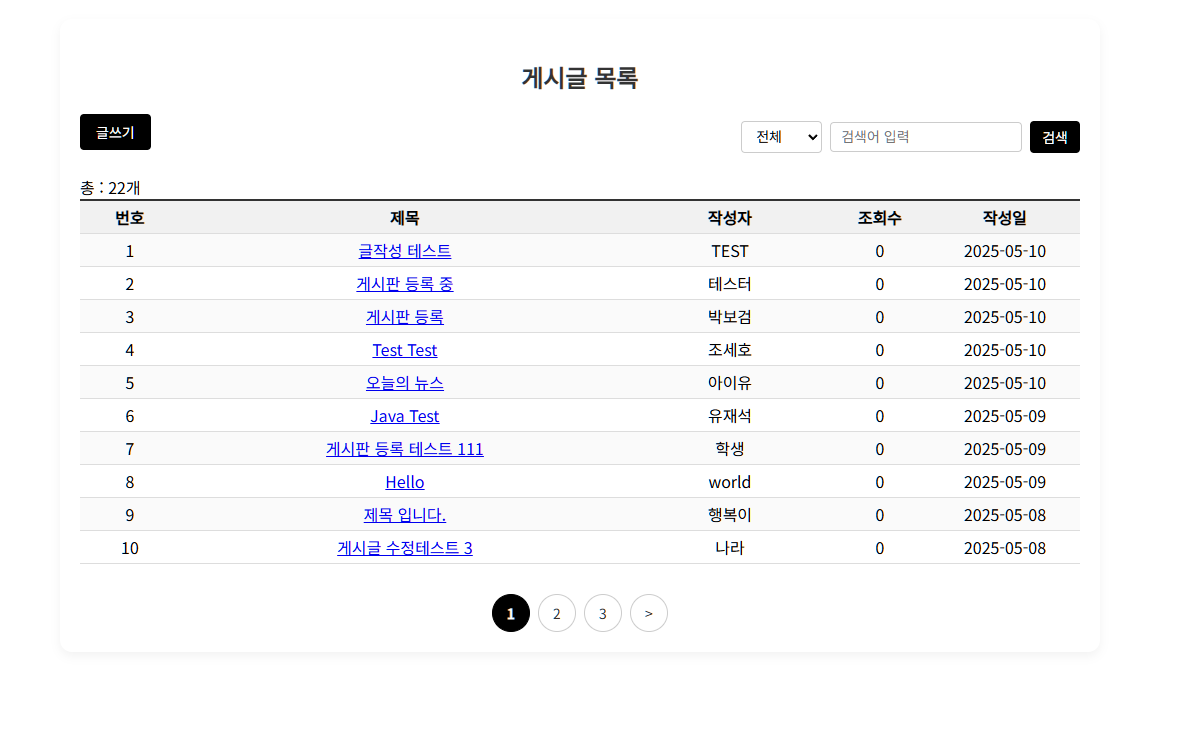
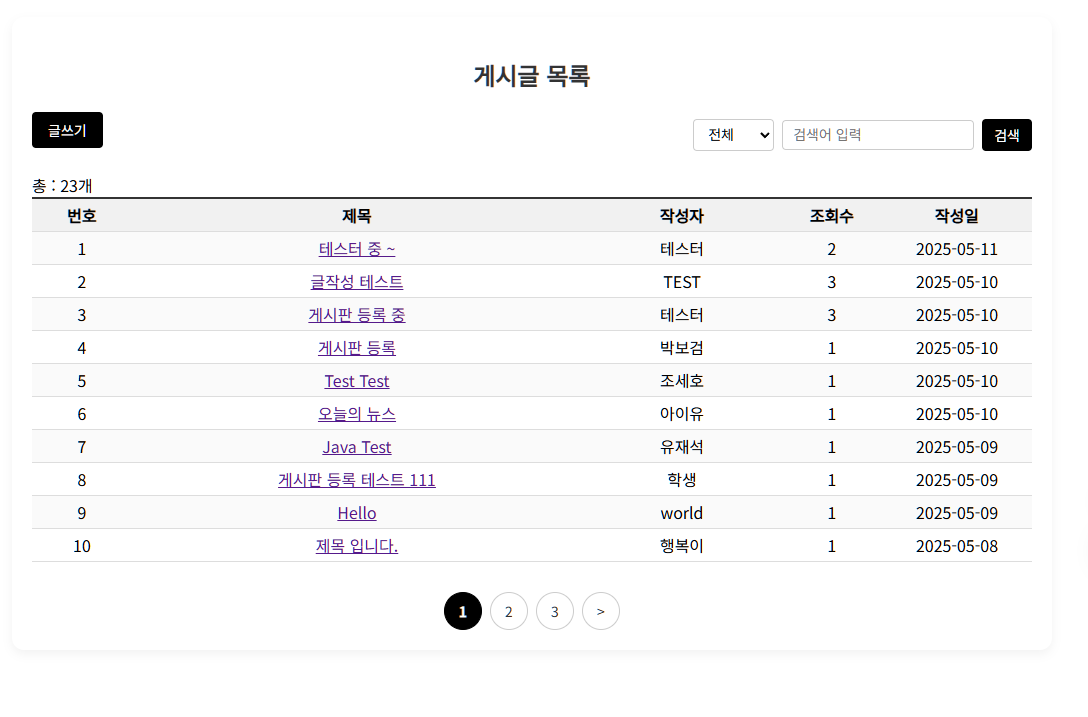
home add

diff --git a/src/main/webapp/css/home/home_style.css b/src/main/webapp/css/home/home_style.css
@@ -1,0 +1,114 @@
+
+.header {
+    background-color: #6366f1;  /* indigo-500 */
+    color: white;
+    padding: 20px 40px;
+    text-align: center;
+}
+
+.header p {
+    margin-top: 5px;
+    font-size: 14px;
+    color: #e0e7ff; /* indigo-100 */
+}
+
+/* Top Menu */
+.top-menu {
+    background-color: #818cf8;  /* indigo-300 */
+}
+
+.top-menu ul {
+    display: flex;
+    justify-content: center;
+    list-style: none;
+    padding: 10px 0;
+    margin: 0;
+}
+
+.top-menu li {
+    margin: 0 20px;
+}
+
+.top-menu a {
+    color: white;
+    text-decoration: none;
+    padding: 8px 16px;
+    border-radius: 6px;
+    transition: background-color 0.2s ease;
+}
+
+.top-menu a:hover {
+    background-color: #6366f1; 
+}
+
+
+html, body {
+    height: 100%;
+}
+
+body {
+    margin: 0;
+    font-family: 'Inter', 'Segoe UI', Tahoma, sans-serif;
+    background-color: #f9fafb;
+    color: #111827;
+    display: flex;
+    flex-direction: column;
+}
+
+.main {
+    flex: 1;
+}
+
+.container {
+    max-width: 1024px;
+    margin: 0 auto;
+    padding: 20px 10px;
+    text-align: center;
+}
+
+.title {
+    font-size: 2rem;
+    font-weight: bold;
+    margin-bottom: 20px;
+}
+
+.subtitle {
+    font-size: 1.2rem;
+    margin-bottom: 40px;
+    color: #6b7280;
+}
+
+.btn {
+    background-color: #3b82f6;
+    color: white;
+    padding: 12px 24px;
+    border: none;
+    border-radius: 8px;
+    font-size: 1rem;
+    cursor: pointer;
+    text-decoration: none;
+    transition: background-color 0.2s ease;
+}
+
+.btn:hover {
+    background-color: #2563eb;
+}
+
+/* footer */
+.footer {
+    background-color: #e5e7eb;
+    color: #6b7280;
+    padding: 20px;
+    text-align: center;
+    font-size: 0.9rem;
+}
+
+@media (max-width: 600px) {
+    .top-menu ul {
+        flex-direction: column;
+    }
+
+    .top-menu li {
+        margin: 10px 0;
+    }
+}

diff --git a/src/main/webapp/css/map/map_style.css b/src/main/webapp/css/map/map_style.css
@@ -73,7 +73,7 @@ body {
     white-space: nowrap;
 }
 
-/* 상세 정보 패널 */
+/* 상세 정보 */
 #info-panel {
     margin-top: 20px;
     border: 1px solid #ccc;
@@ -82,7 +82,7 @@ body {
     border-radius: 6px;
 }
 
-/* 사고 테이블 */
+/* 테이블 */
 .accident-table {
     width: 100%;
     border-collapse: collapse;

diff --git a/src/main/java/main/web/BoardController.java b/src/main/java/main/web/BoardController.java
@@ -12,6 +12,7 @@ import org.springframework.ui.ModelMap;
 import org.springframework.web.bind.annotation.RequestMapping;
 import org.springframework.web.bind.annotation.RequestMethod;
 import org.springframework.web.bind.annotation.RequestParam;
+import org.springframework.web.bind.annotation.ResponseBody;
 import org.springframework.web.servlet.mvc.support.RedirectAttributes;
 
 import main.service.BoardService;
@@ -78,6 +79,14 @@ public class BoardController {
         return "redirect:/boardList.do"; 
     }
 
+    // 조회수만 증가
+    @RequestMapping("/increaseHit.do")
+    @ResponseBody
+    public void increaseHit(@RequestParam("unq") int unq) {
+    	logger.info("==================== increaseHit.do ");
+        boardService.updateBoardHits(unq);
+    }
+    
     @RequestMapping("/boardDetail.do")
     public String boardDetail(@RequestParam("unq") int unq, ModelMap model) {
     	logger.info("==================== boardDetail.do ");

diff --git a/src/main/java/home/web/HomeController.java b/src/main/java/home/web/HomeController.java
@@ -1,0 +1,20 @@
+package home.web;
+
+import org.apache.logging.log4j.LogManager;
+import org.apache.logging.log4j.Logger;
+import org.springframework.stereotype.Controller;
+import org.springframework.web.bind.annotation.RequestMapping;
+
+import map.web.MapController;
+
+@Controller
+public class HomeController {
+	
+	private static final Logger logger = LogManager.getLogger(MapController.class);
+	
+    @RequestMapping("/home.do")
+    public String mainPage() {
+    	logger.info("================ home.do ");	
+        return "home/home";
+    }
+}

diff --git a/src/main/java/egovframework/example/sample/web/CodeController.java b/src/main/java/egovframework/example/sample/web/CodeController.java
@@ -20,7 +20,7 @@ public class CodeController {
 	@Resource(name="codeService")
 	private CodeService codeService;
 	
-	@RequestMapping(value="codeWrite.do")
+	@RequestMapping(value="/codeWrite.do")
 	public String codeWrite() {
 		return "code/codeWrite";
 	}

diff --git a/src/main/java/main/servcie/impl/BoardDAO.java b/src/main/java/main/servcie/impl/BoardDAO.java
@@ -33,4 +33,9 @@ public class BoardDAO extends EgovAbstractDAO {
     public void deleteBoard(int unq) {
         delete("BoardDAO.deleteBoard", unq);
     }
+
+	public void updateBoardHits(int unq) {
+		update("BoardDAO.updateBoardHits", unq);
+	}
+    
 }

diff --git a/src/main/java/main/servcie/impl/BoardServiceImpl.java b/src/main/java/main/servcie/impl/BoardServiceImpl.java
@@ -38,4 +38,9 @@ public class BoardServiceImpl extends EgovAbstractServiceImpl implements BoardSe
         boardDAO.deleteBoard(unq);
     }
 
+	@Override
+	public void updateBoardHits(int unq) {
+		boardDAO.updateBoardHits(unq);
+	}
+
 }

diff --git a/src/main/java/map/util/MapUtil.java b/src/main/java/map/util/MapUtil.java
@@ -32,7 +32,7 @@ public class MapUtil {
 				+ "ServiceKey=" + API_KEY
 				+ "&searchYearCd=" + year
 				+ "&siDo=27"
-				+ "&guGun=" +gugun
+				+ "&guGun=" + gugun
 				+ "&type=json"
 				+ "&numOfRows=10"
 				+ "&pageNo=1";

diff --git a/src/main/java/map/web/MapController.java b/src/main/java/map/web/MapController.java
@@ -39,7 +39,7 @@ public class MapController {
         model.addAttribute("gugun", gugun);
         model.addAttribute("year", year);
         
-		return "map/bikeMap";
+        return "map/bikeMap";
 	}
 
 }

diff --git a/src/main/java/main/service/BoardService.java b/src/main/java/main/service/BoardService.java
@@ -10,4 +10,5 @@ public interface BoardService {
     BoardVO selectBoardDetail(int unq);
     void updateBoard(BoardVO vo);
     void deleteBoard(int unq);
+    void updateBoardHits(int unq);
 }

diff --git a/README.md b/README.md
@@ -1,17 +1,10 @@
-# 📌 eGovFrame 게시판 
+# 1. eGovFrame 게시판 
+# 2. 자전거 사고 다발지역 네이버 지도 시각화 
 
-Java 기반의 eGovFrame + JSP (JSTL) + iBATIS + Oracle
-
-## 주요 기능
-
-- 글 작성 (비밀번호 포함)
-- 글 목록 보기
-- 글 수정 (비밀번호 확인)
-- 글 삭제 (비밀번호 확인)
-- 검색 기능 (제목, 내용, 작성자)
-- 페이지네이션 (10개 단위)
 
 ## 기술 스택
+Java 기반의 eGovFrame + JSP (JSTL) + iBATIS + Oracle
+
 - eGovFramework 3.10
 - Java 8
 - JSP + JSTL
@@ -20,7 +13,30 @@ Java 기반의 eGovFrame + JSP (JSTL) + iBATIS + Oracle
 - Apache Tomcat 9.x 
 - Eclipse IDE (eGovFrame Dev 환경)
 
-## 데이터베이스 테이블
+
+## 1. 게시판 주요 기능
+- 글 작성 (비밀번호 포함)
+- 글 목록 보기
+- 글 수정 (비밀번호 확인)
+- 글 삭제 (비밀번호 확인)
+- 검색 기능 (제목, 내용, 작성자)
+- 페이지네이션 (10개 단위)
+
+- http://localhost:9080/myproject_new/boardList.do
+- docs/boardList.png
+
+
+## 2. 네이버 지도 시각화 주요 기능
+- 구군 및 연도 선택 UI
+- 공공데이터 데이터 수신 (위도, 경도, 장소명, 사고건수)
+  ( 도로교통공단 API : https://www.data.go.kr/data/15057732/openapi.do ) 
+- 네이버 지도 시각화 (마커 표시 + 툴팁 표시 (Overlay), 마커 클릭시 상세 정보 표시)
+
+- http://localhost:9080/myproject_new/bikeMap.do?gugun=140&year=2023
+- docs/bikeMap.png
+
+
+## 데이터베이스 테이블 (게시판)
 ```sql
 CREATE TABLE NBOARD (
     UNQ     NUMBER PRIMARY KEY,
@@ -31,10 +47,3 @@ CREATE TABLE NBOARD (
     HITS    NUMBER DEFAULT 0,
     REGDATE TIMESTAMP DEFAULT SYSTIMESTAMP
 );
-
-## URL
-http://localhost:9080/myproject_new/boardList.do
-
-![게시판 목록 화면](docs/boardList.png)
-
-
